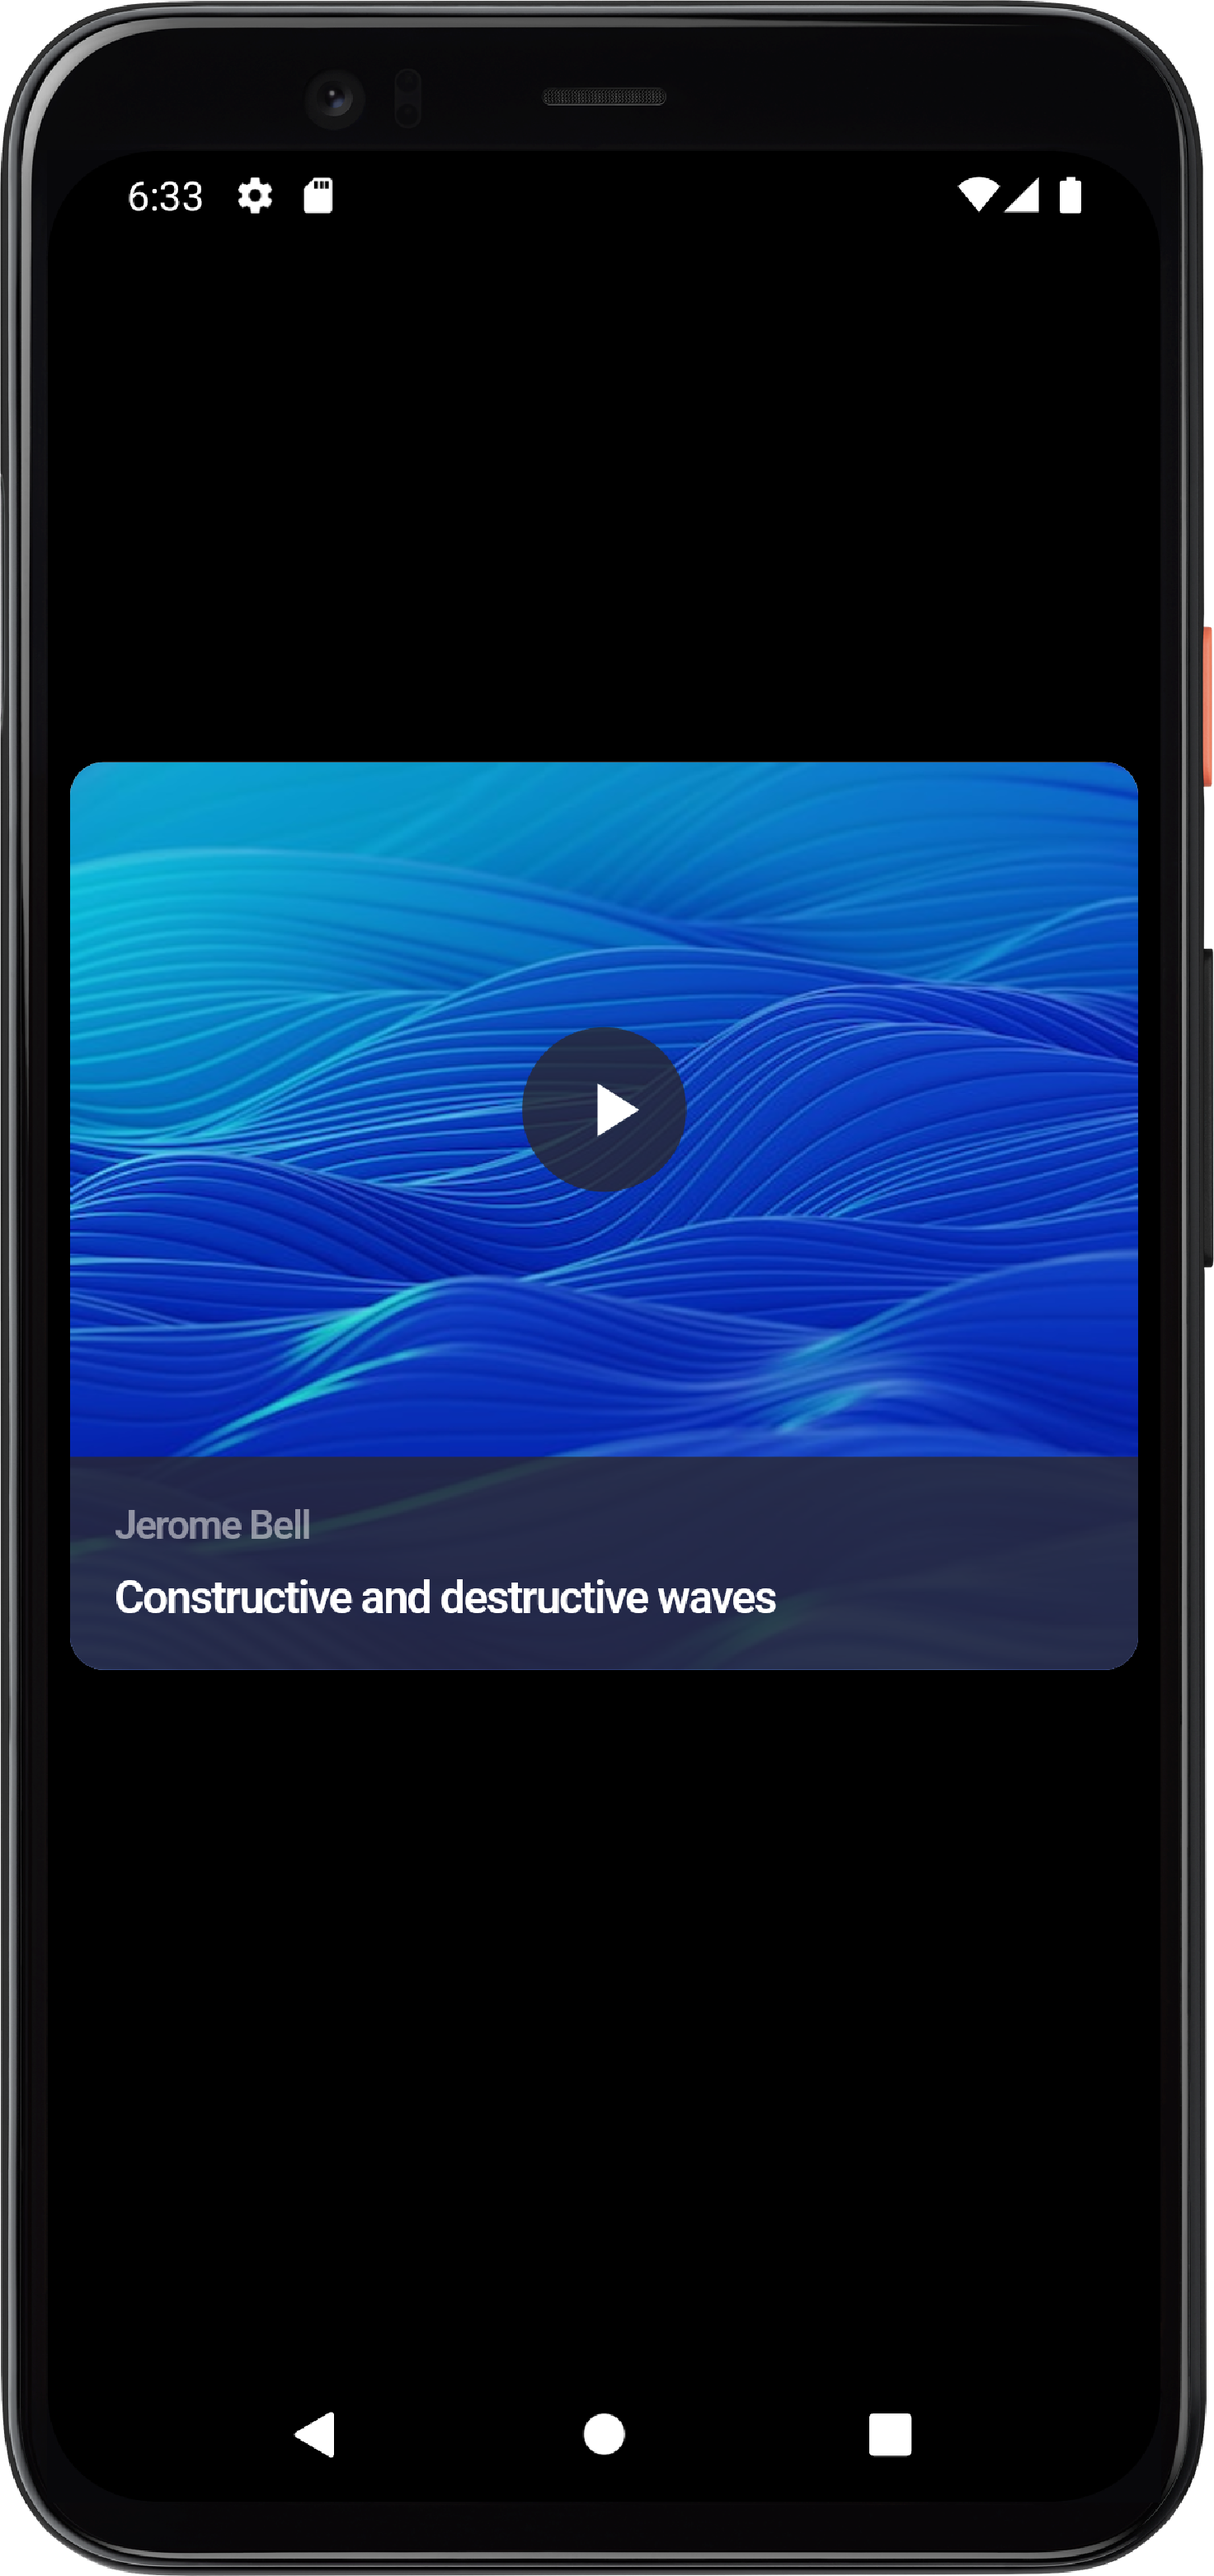
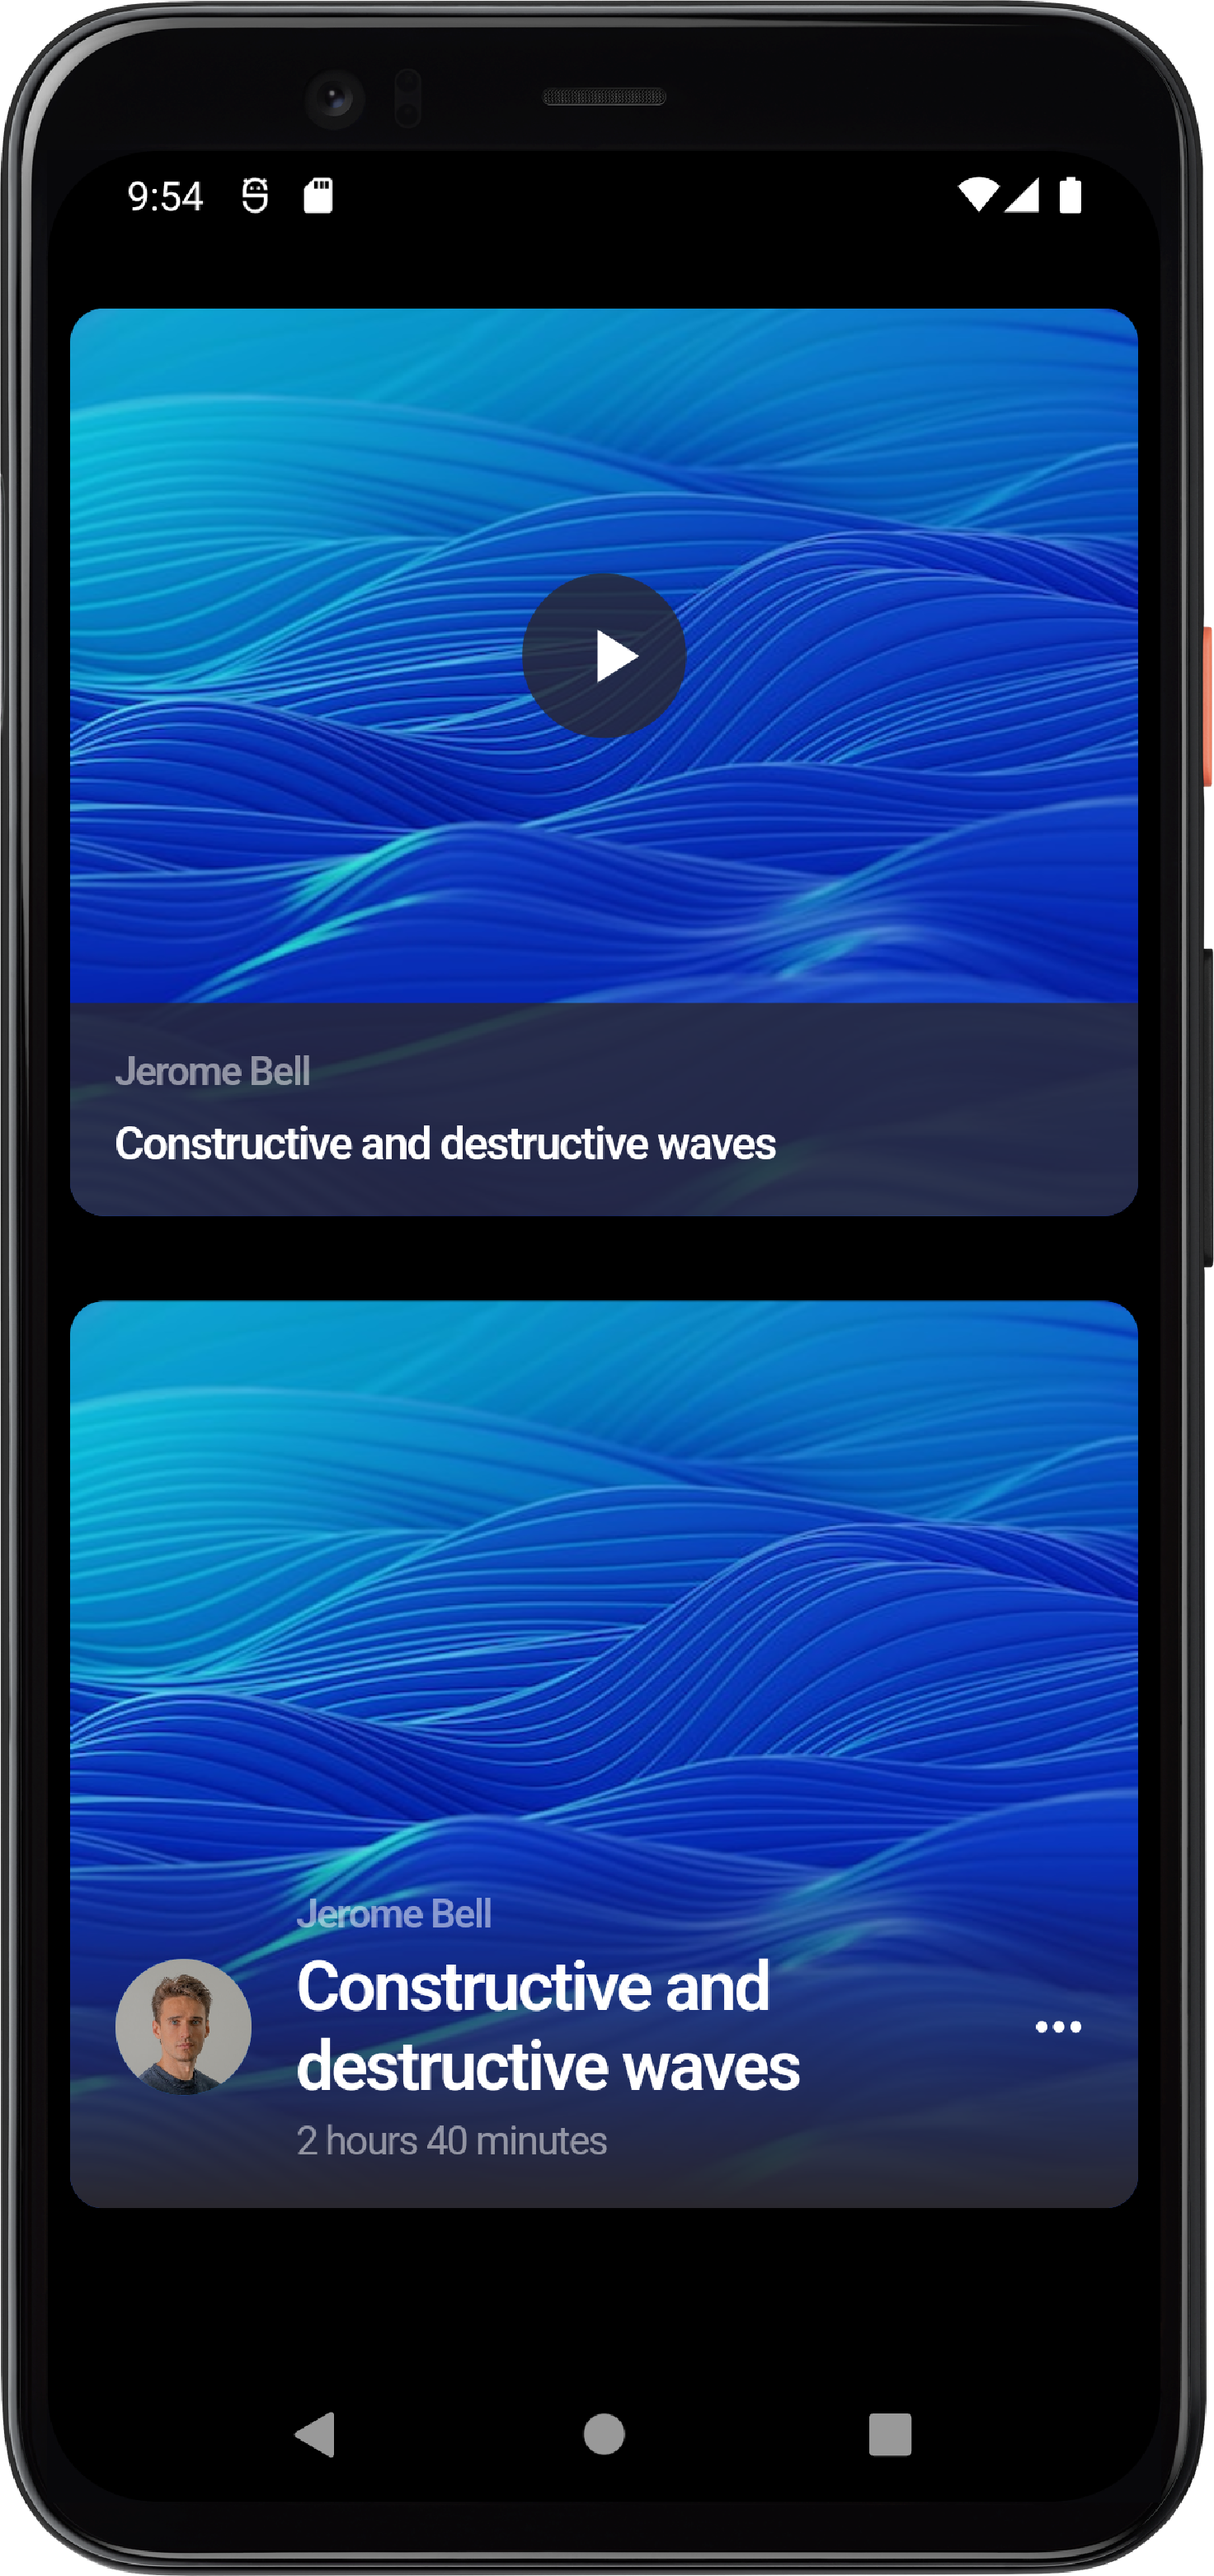
add Card 22

diff --git a/lib/Cards/card_22.dart b/lib/Cards/card_22.dart
@@ -1,0 +1,93 @@
+import 'package:flutter/material.dart';
+import 'package:gap/gap.dart';
+class Card22 extends StatelessWidget {
+  const Card22({Key? key}) : super(key: key);
+
+  @override
+  Widget build(BuildContext context) {
+    return Container(
+      height: 320,
+      width: double.infinity,
+      clipBehavior: Clip.antiAlias,
+      decoration: ShapeDecoration(
+        image: const DecorationImage(image: NetworkImage("https://s3-alpha-sig.figma.com/img/234b/2a75/407c63c81bbefe9dce7316920415ce51?Expires=1704067200&Signature=Tz8~chAPIx1vszCFzqWtOb8vWpk~gACjJi-KQd-nSOZIsSc--EfxT6av7UR849GzYT77XjPv72M1pgo8bgsK9AOro1LUMnqI7MraqlZ4q-X8FE~QUU67fkQAjZu1ep5uYkleMs42dgQipwVXvB~agOqzQ3d3QsYCDOIkevwD~mylZ1HRkIcaTt7NS~Xk-cx3w5t23pMmsfkRMZI498bVouZc9B33u~9X3-r9v8CIENBOwGD79If8YyrJJexFNqIOls6BFdmrhtklJd-jftkwOkUEws-ItsF10gfb-kr4qhXWdP-pkrKxKDqci6TESs~sl6oB7mbCM8hXPASBDZKwTA__&Key-Pair-Id=APKAQ4GOSFWCVNEHN3O4"), fit: BoxFit.fill
+          , ),
+        shape: RoundedRectangleBorder(
+          borderRadius: BorderRadius.circular(12),
+        ),
+      ),
+      child: Column(
+        mainAxisAlignment: MainAxisAlignment.end,
+        children: [
+          Container(
+            padding: const EdgeInsets.all(16),
+            decoration: const BoxDecoration(
+              gradient: LinearGradient(
+                begin: Alignment(0.00, -1.00),
+                end: Alignment(0, 1),
+                colors: [Color(0x0029272E), Color(0xFF29272E)],
+              ),
+            ),
+            child:  Row(
+              children: [
+                const SizedBox(
+                  height: 48,
+                  width: 48,
+                  child: CircleAvatar(
+                    backgroundImage: NetworkImage("https://s3-alpha-sig.figma.com/img/0e5d/8279/8e2becda16e2f3abc85e162b63a8d214?Expires=1704067200&Signature=m-pJeD~ylRMmgirPNxn9wu78ryYRNN8xngruQYngKINrixxDESYinftuHmb~9F~CQx2-GdfV0fRs~X1gW2IB-8IEFU-hF5Nv4Vw8c5MVQzGuGDP31efhIiT8l2QzxZxlLRjIuiX3d3HugZ-ov6JJOKYiDLhrABDu5PCiB4dxip93zNbONILiQ2RQwz-pibJOhAZvQ1oQ2FPLj26KbmdVBFvon~t8h79qZstV8eKeox0~v4h71uFRIFMDQKJ8WlqJq~s~exK9JZq7QXazdc9V9UXjd92~JacRpjPS4kG896j8dtbbDlvJCFghb9Fb81W~L8WclNPcC1bRWNRT1RwMjA__&Key-Pair-Id=APKAQ4GOSFWCVNEHN3O4"),
+
+                  ),
+                ),
+                const Gap(16),
+                Expanded(
+                  child: Column(
+                    crossAxisAlignment: CrossAxisAlignment.start,
+                    children: [
+                      Text(
+                        'Jerome Bell',
+                        style: TextStyle(
+                          color: Colors.white.withOpacity(0.5),
+                          fontSize: 14,
+                          fontFamily: 'Inter',
+                          fontWeight: FontWeight.w600,
+                          height: 0,
+                          letterSpacing: -0.56,
+                        ),
+                      ),
+                      const Gap(4),
+                      const Text(
+                        'Constructive and destructive waves',
+                        style: TextStyle(
+                          color: Colors.white,
+                          fontSize: 24,
+                          fontFamily: 'Inter',
+                          fontWeight: FontWeight.w600,
+                          height: 0,
+                          letterSpacing: -0.96,
+                        ),
+                      ),
+                      const Gap(4),
+                      Text(
+                        '2 hours 40 minutes',
+                        style: TextStyle(
+                          color: Colors.white.withOpacity(0.5),
+                          fontSize: 14,
+                          fontFamily: 'Inter',
+                          fontWeight: FontWeight.w400,
+                          height: 0,
+                          letterSpacing: -0.56,
+                        ),
+                      )
+                    ],
+                  ),
+                ),
+                const Gap(16),
+                const Icon(Icons.more_horiz,color: Colors.white, size: 24,)
+              ],
+            ),
+          )
+        ],
+      ),
+    );
+  }
+}

diff --git a/lib/Cards/card_21.dart b/lib/Cards/card_21.dart
@@ -10,7 +10,6 @@ class Card21 extends StatelessWidget {
       height: 320,
       width: double.infinity,
       decoration: ShapeDecoration(
-        color:  const Color(0xFFF7F6FA),
           image: const DecorationImage(image: NetworkImage("https://s3-alpha-sig.figma.com/img/234b/2a75/407c63c81bbefe9dce7316920415ce51?Expires=1704067200&Signature=Tz8~chAPIx1vszCFzqWtOb8vWpk~gACjJi-KQd-nSOZIsSc--EfxT6av7UR849GzYT77XjPv72M1pgo8bgsK9AOro1LUMnqI7MraqlZ4q-X8FE~QUU67fkQAjZu1ep5uYkleMs42dgQipwVXvB~agOqzQ3d3QsYCDOIkevwD~mylZ1HRkIcaTt7NS~Xk-cx3w5t23pMmsfkRMZI498bVouZc9B33u~9X3-r9v8CIENBOwGD79If8YyrJJexFNqIOls6BFdmrhtklJd-jftkwOkUEws-ItsF10gfb-kr4qhXWdP-pkrKxKDqci6TESs~sl6oB7mbCM8hXPASBDZKwTA__&Key-Pair-Id=APKAQ4GOSFWCVNEHN3O4"), fit: BoxFit.fill
             , ),
         shape: RoundedRectangleBorder(

diff --git a/lib/Screens/view_8.dart b/lib/Screens/view_8.dart
@@ -1,5 +1,6 @@
 import 'package:flutter/material.dart';
 import 'package:flutter_ui_card_collections/Cards/card_21.dart';
+import 'package:flutter_ui_card_collections/Cards/card_22.dart';
 import 'package:gap/gap.dart';
 class View8 extends StatelessWidget {
   const View8({Key? key}) : super(key: key);
@@ -15,6 +16,7 @@ class View8 extends StatelessWidget {
           children: [
             Card21(),
             Gap(30),
+            Card22()
 
           ],
         ),
